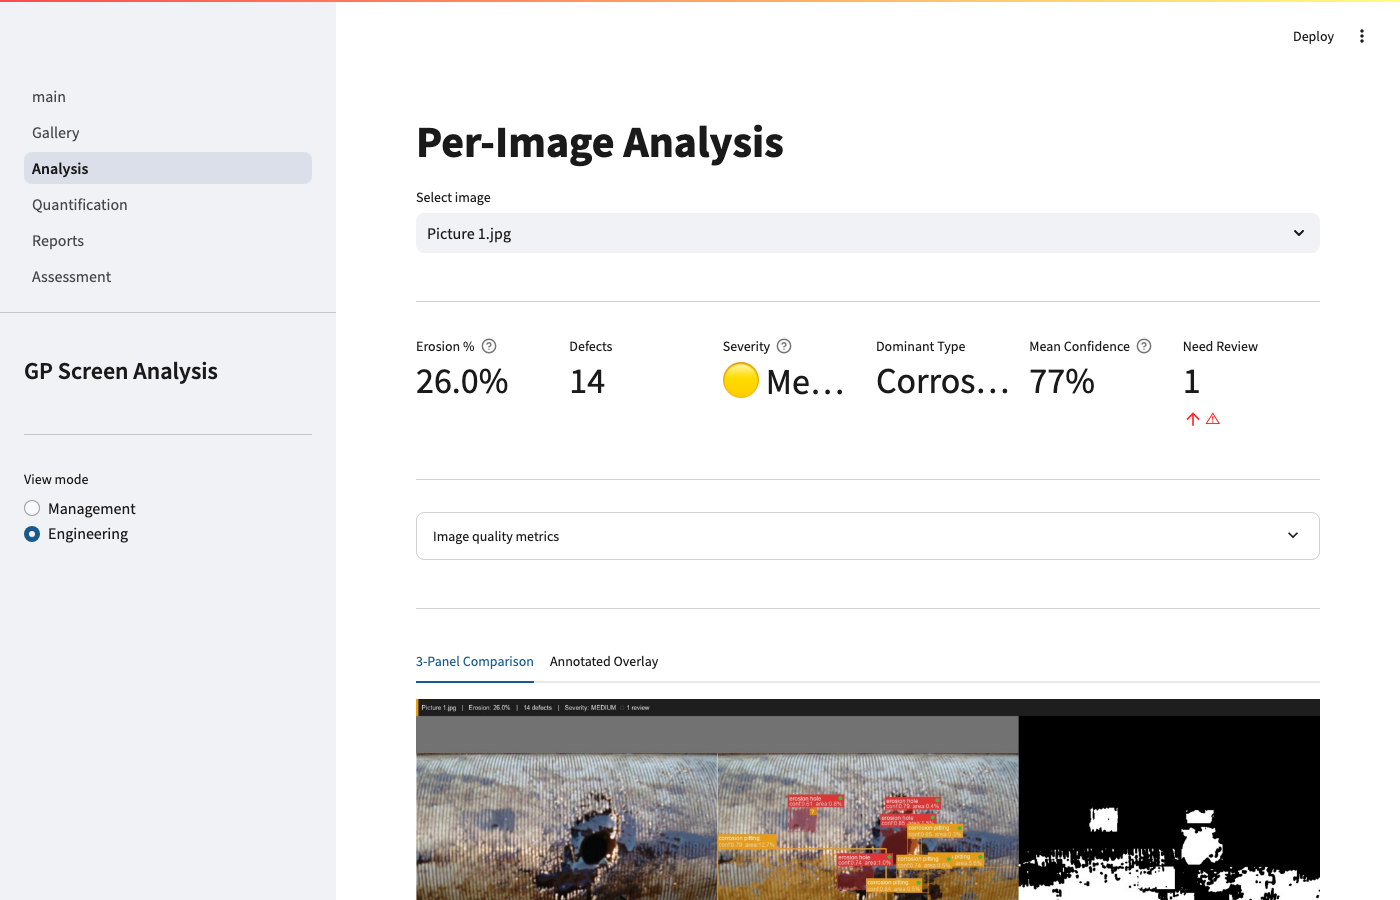
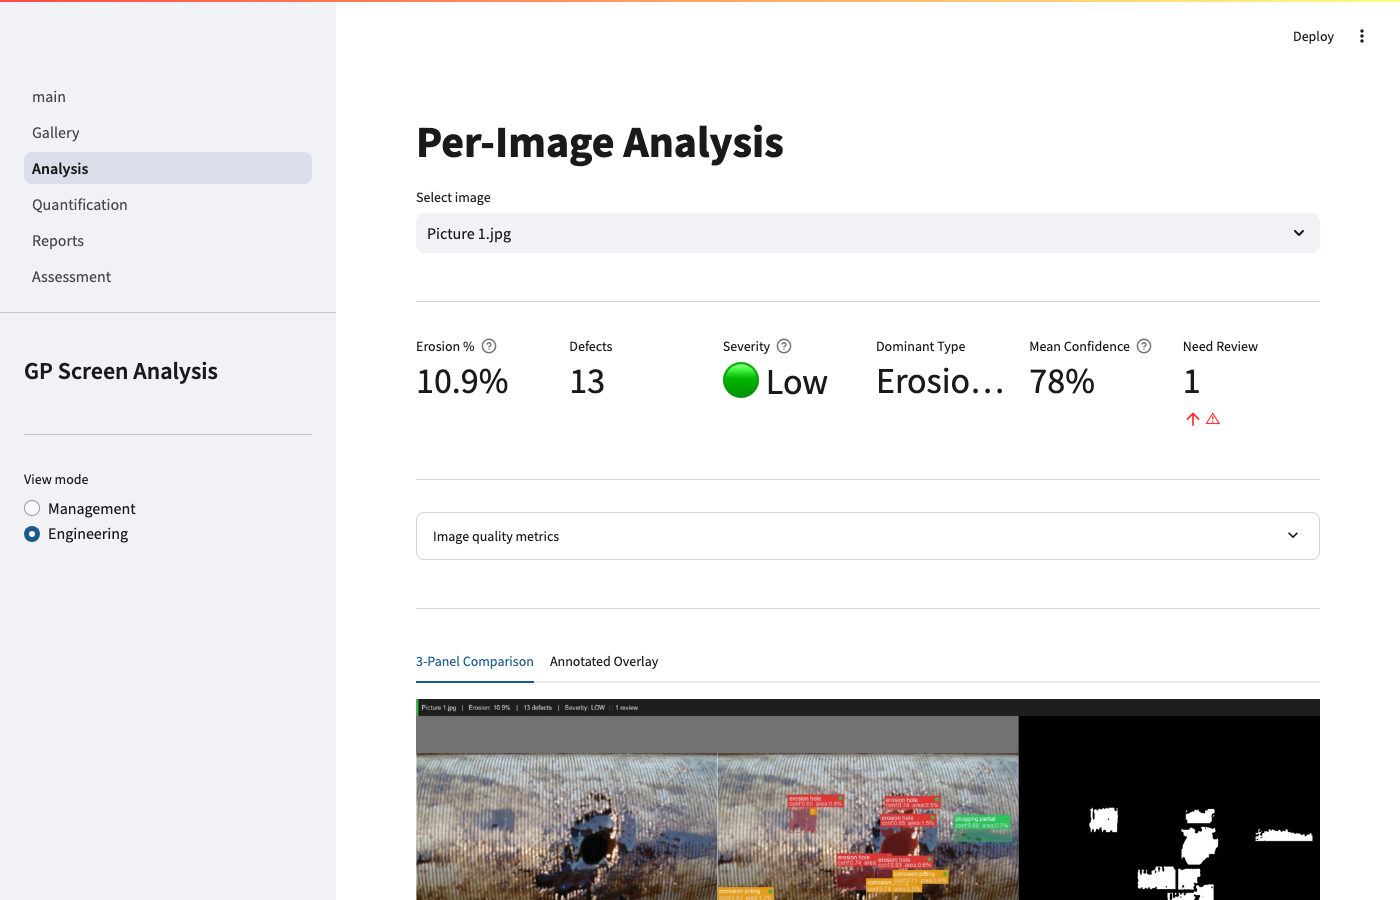
Tune contour detector thresholds and wire up cross-class NMS config
- Loosen color-anomaly HSV range and lower min blob area / adaptive_c
  so faded corrosion and smaller pits are no longer missed.
- Raise max_area_frac and aspect-ratio bounds to allow larger damage
  regions through.
- Add cross_iou and containment_threshold config knobs for the
  nms_global cross-class suppression added alongside this, and load
  them (plus the other detector params) from configs/detection_config.yaml
  in batch_detect.py, with CLI flags still overriding.
- Refresh gallery/analysis screenshots to reflect the updated detections.

diff --git a/src/detection/contour.py b/src/detection/contour.py
@@ -18,18 +18,19 @@ import cv2
 import numpy as np
 
 from .base import BaseDetector, Detection
-from .nms import nms
+from .nms import nms_global
 
 # Class IDs used by this detector
 _CLS_DARK_BLOB = 0
 _CLS_COLOR_ANOMALY = 1
 _CLASS_NAMES = {_CLS_DARK_BLOB: "dark_blob", _CLS_COLOR_ANOMALY: "color_anomaly"}
 
-# HSV hue ranges for rust/corrosion: orange-red (10–30°) and red wrap-around
-_RUST_LOWER1 = np.array([5, 80, 50], dtype=np.uint8)
-_RUST_UPPER1 = np.array([30, 255, 220], dtype=np.uint8)
-_RUST_LOWER2 = np.array([160, 80, 50], dtype=np.uint8)
-_RUST_UPPER2 = np.array([180, 255, 220], dtype=np.uint8)
+# HSV hue ranges for rust/corrosion: orange-red (5–35°) and red wrap-around.
+# Saturation min lowered to 50 to catch faded/weathered corrosion patches.
+_RUST_LOWER1 = np.array([5, 50, 40], dtype=np.uint8)
+_RUST_UPPER1 = np.array([35, 255, 230], dtype=np.uint8)
+_RUST_LOWER2 = np.array([155, 50, 40], dtype=np.uint8)
+_RUST_UPPER2 = np.array([180, 255, 230], dtype=np.uint8)
 
 
 @dataclass
@@ -40,17 +41,21 @@ class ContourConfig:
     open_kernel_size: int = 5
     # Adaptive threshold block size (must be odd)
     adaptive_block_size: int = 51
-    # Adaptive threshold constant (subtracted from mean)
-    adaptive_c: int = 8
-    # Minimum blob area as fraction of image area
-    min_area_frac: float = 0.002    # 0.2% of image
-    # Maximum blob area as fraction of image area
-    max_area_frac: float = 0.20     # 20% of image
+    # Adaptive threshold constant (subtracted from mean) — lower = more sensitive
+    adaptive_c: int = 6
+    # Minimum blob area as fraction of image area — 0.1% catches small pits
+    min_area_frac: float = 0.001
+    # Maximum blob area as fraction of image area — 40% allows large damage regions
+    max_area_frac: float = 0.40
     # Aspect ratio limits (width/height)
-    min_aspect: float = 0.15
-    max_aspect: float = 6.5
-    # NMS IoU threshold
-    nms_iou: float = 0.4
+    min_aspect: float = 0.12
+    max_aspect: float = 7.0
+    # Within-class NMS IoU threshold
+    nms_iou: float = 0.35
+    # Cross-class IoU threshold for global NMS
+    cross_iou: float = 0.50
+    # Containment threshold: suppress inner if this fraction is inside a larger box
+    containment_threshold: float = 0.80
     # Whether to run colour-anomaly strategy
     run_color_anomaly: bool = True
 
@@ -192,4 +197,9 @@ class ContourDetector(BaseDetector):
                     source="contour_color",
                 ))
 
-        return nms(detections, iou_threshold=self._cfg.nms_iou)
+        return nms_global(
+            detections,
+            iou_threshold=self._cfg.nms_iou,
+            cross_iou_threshold=self._cfg.cross_iou,
+            containment_threshold=self._cfg.containment_threshold,
+        )

diff --git a/src/detection/pipeline.py b/src/detection/pipeline.py
@@ -40,17 +40,19 @@ def _load_detector(config: dict) -> BaseDetector:
             device=config.get("device", "cpu"),
         )
 
-    # Default: contour detector
+    # Default: contour detector — values fall back to ContourConfig dataclass defaults
     cfg = ContourConfig(
         close_kernel_size=config.get("close_kernel_size", 21),
         open_kernel_size=config.get("open_kernel_size", 5),
         adaptive_block_size=config.get("adaptive_block_size", 51),
-        adaptive_c=config.get("adaptive_c", 8),
-        min_area_frac=config.get("min_area_frac", 0.002),
-        max_area_frac=config.get("max_area_frac", 0.20),
-        min_aspect=config.get("min_aspect", 0.15),
-        max_aspect=config.get("max_aspect", 6.5),
-        nms_iou=config.get("nms_iou", 0.4),
+        adaptive_c=config.get("adaptive_c", 6),
+        min_area_frac=config.get("min_area_frac", 0.001),
+        max_area_frac=config.get("max_area_frac", 0.40),
+        min_aspect=config.get("min_aspect", 0.12),
+        max_aspect=config.get("max_aspect", 7.0),
+        nms_iou=config.get("nms_iou", 0.35),
+        cross_iou=config.get("cross_iou", 0.50),
+        containment_threshold=config.get("containment_threshold", 0.80),
         run_color_anomaly=config.get("run_color_anomaly", True),
     )
     return ContourDetector(cfg)

diff --git a/scripts/batch_detect.py b/scripts/batch_detect.py
@@ -30,13 +30,22 @@ def main() -> None:
     from src.detection import detect_all, get_detection_runs, ensure_table
     from src.ingestion.database import init_db
 
-    detector_config = {
-        "detector": args.detector,
-        "weights_path": args.weights,
-        "min_area_frac": args.min_area,
-        "max_area_frac": args.max_area,
-        "run_color_anomaly": not args.no_color,
-    }
+    # Load detection_config.yaml if present; CLI args override it
+    import yaml
+    cfg_path = project_root / "configs" / "detection_config.yaml"
+    detector_config: dict = {}
+    if cfg_path.exists():
+        with cfg_path.open() as f:
+            detector_config = yaml.safe_load(f) or {}
+
+    # CLI overrides
+    detector_config["detector"] = args.detector
+    if args.weights:
+        detector_config["weights_path"] = args.weights
+    detector_config["min_area_frac"] = args.min_area
+    detector_config["max_area_frac"] = args.max_area
+    if args.no_color:
+        detector_config["run_color_anomaly"] = False
 
     summary = detect_all(db_path, detector_config=detector_config)
 
